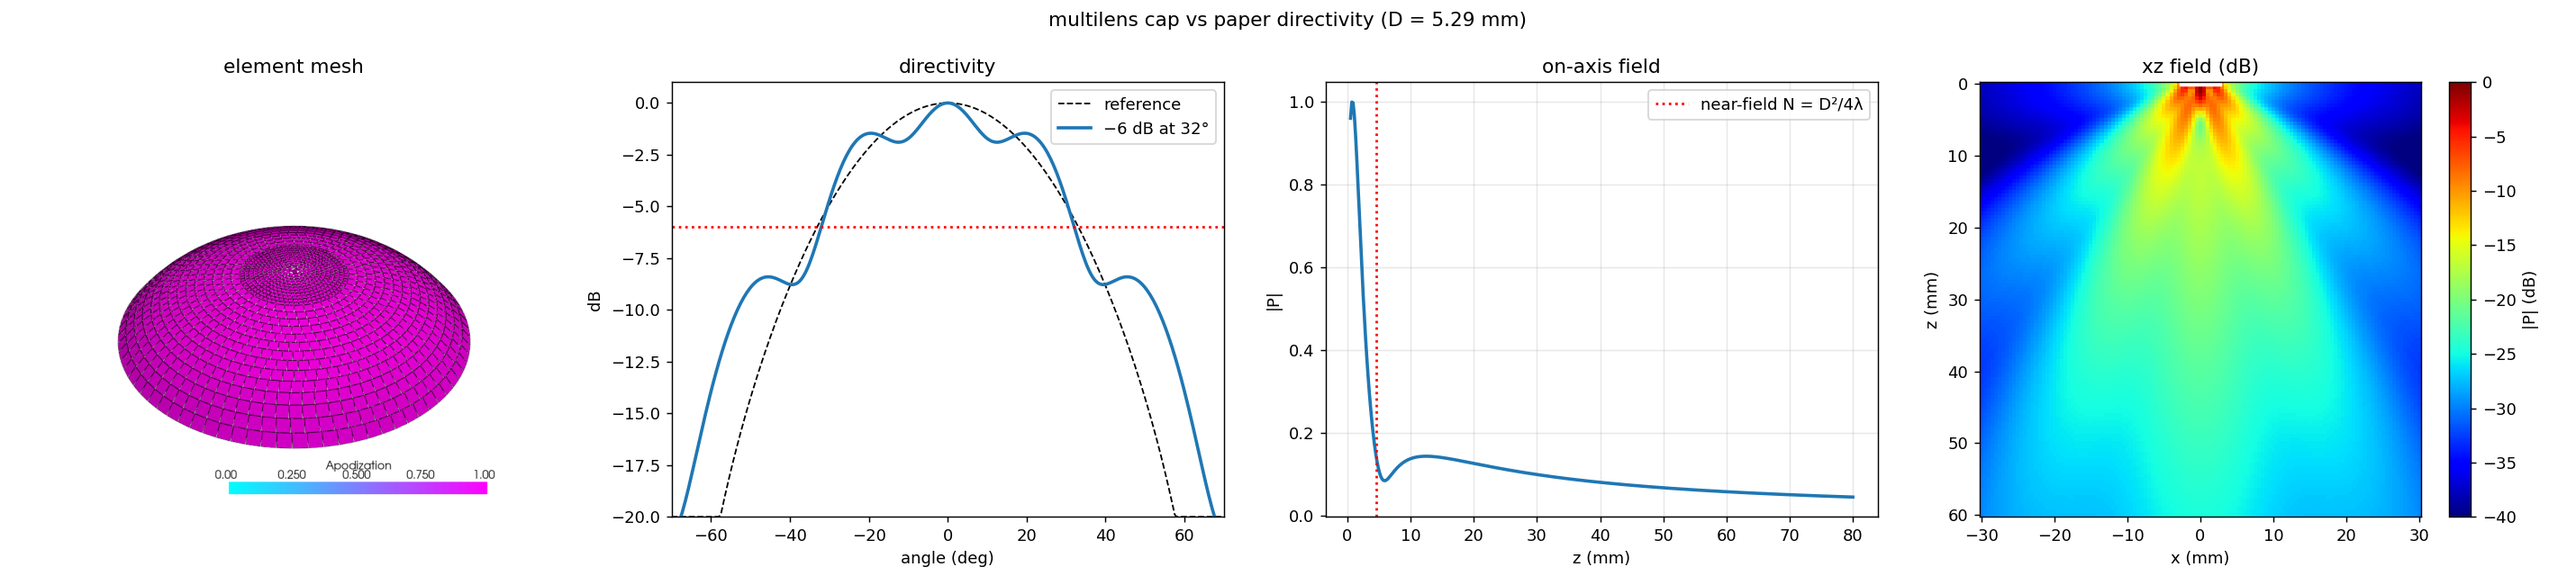
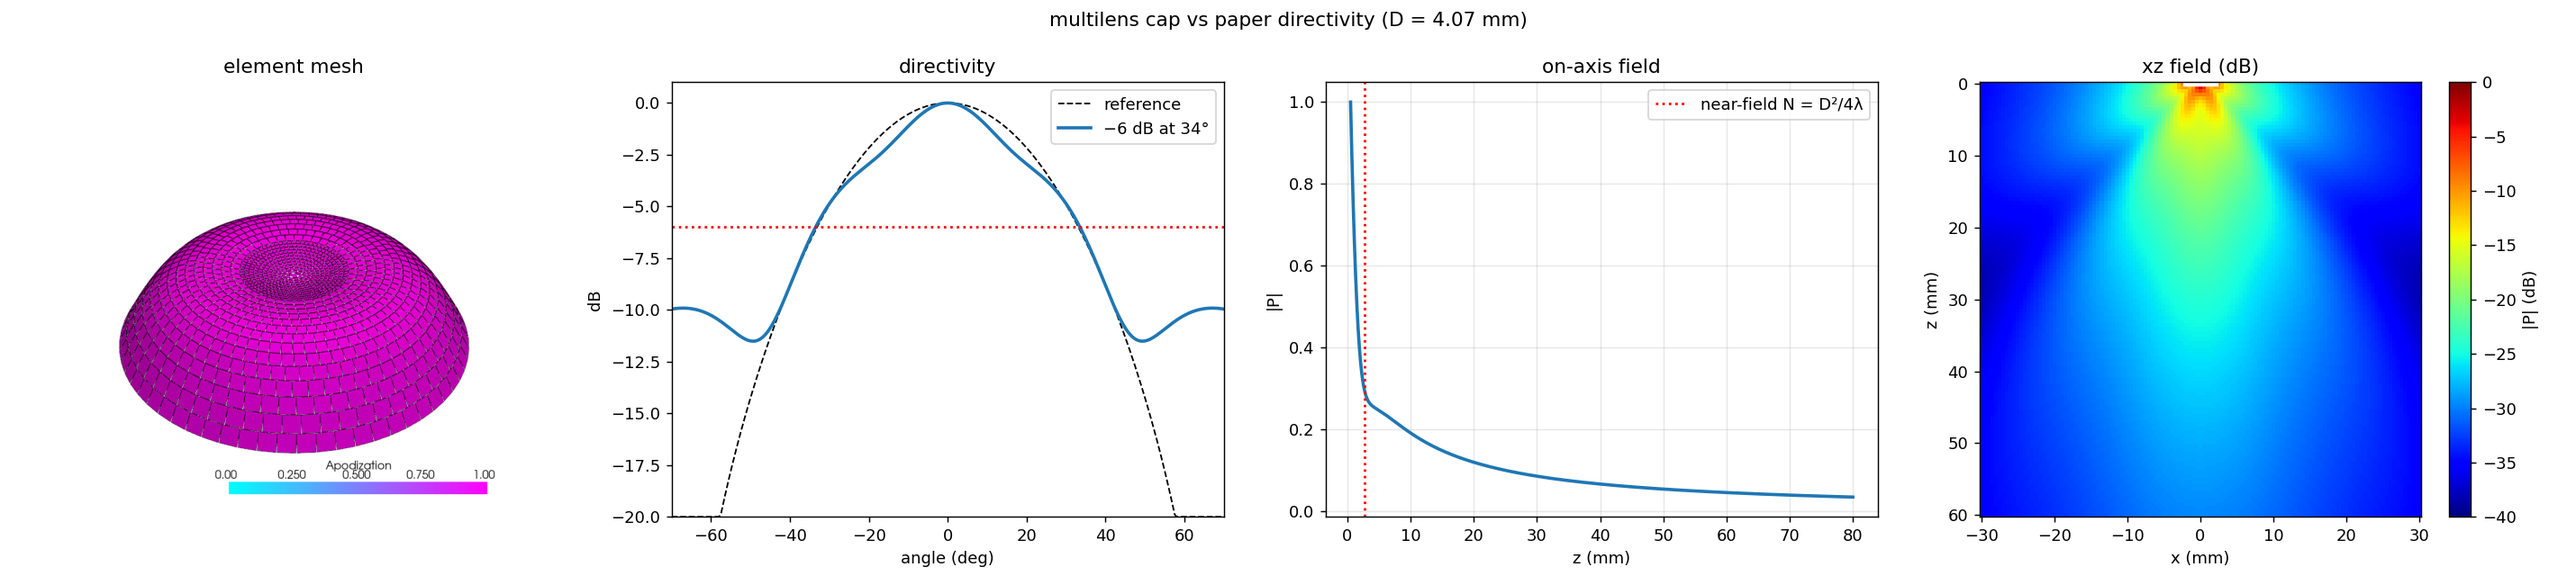
fix(examples): fit example23 over +-50 deg, add seed-vs-optimized profile figure

diff --git a/examples/example23_optimize_radial_element.py b/examples/example23_optimize_radial_element.py
@@ -35,7 +35,7 @@ LAMBDA_MM = C0 / FC * 1e3
 TARGET_HALF_DEG = 33.17  # paper's measured −6 dB half-angle with the lens
 N_COEFFS = 10
 ANGLE = np.linspace(-70, 70, 281)
-FIT = np.abs(ANGLE) <= 45.0
+FIT = np.abs(ANGLE) <= 50.0  # fit the whole bell over ±50°, not just the half-angle
 Z_AXIS = np.linspace(0.5, 60, 300)  # on-axis sampling for the diverging penalty
 
 # Paper's doublet collapsed to one effective diverging cap (both faces R = 3.2 mm,
@@ -100,6 +100,13 @@ def half_angle_deg(dir_db):
     return float(ANGLE[pos][below[0]]) if below.size else float("nan")
 
 
+def profile_mm(coeffs, diameter_mm, n=200):
+    """Surface profile ``(r, z)`` in mm, apex pinned to z=0 as the simulator tiles it."""
+    r_mm = np.linspace(0.0, diameter_mm / 2, n)
+    z_mm = sag_of(coeffs, diameter_mm)(r_mm * 1e-3) * 1e3
+    return r_mm, z_mm - z_mm.max()
+
+
 # Target: unapodised-disc directivity ``2·J1(x)/x`` scaled to the paper half-angle.
 beta = 2.21536 / np.sin(np.deg2rad(TARGET_HALF_DEG))
 x = np.where(np.abs(ANGLE) < 1e-6, 1e-6, beta * np.sin(np.deg2rad(ANGLE)))
@@ -151,9 +158,24 @@ print(
 )
 print(f"coeffs = {np.array2string(coeffs, precision=3)}")
 
-save_path = str(FIG_FOLDER / "ex23_optimized_element.png") if SAVE_FIG else None
 if SAVE_FIG:
     FIG_FOLDER.mkdir(exist_ok=True)
+
+# Profile check: how the surface changed from the physical seed to the optimum.
+rs_mm, zs_mm = profile_mm(c_seed, D_PHYS_MM)
+ro_mm, zo_mm = profile_mm(coeffs, D)
+fig_p, axp = plt.subplots(figsize=(6, 4))
+axp.plot(rs_mm, zs_mm * 1e3, "k--", lw=2, label=f"physical seed (D={D_PHYS_MM:.1f} mm)")
+axp.plot(ro_mm, zo_mm * 1e3, "C0", lw=2, label=f"optimized (D={D:.2f} mm)")
+axp.set(xlabel="r (mm)", ylabel="z (µm)", title="radial surface profile z(r)")
+axp.legend()
+axp.grid(alpha=0.3)
+fig_p.tight_layout()
+if SAVE_FIG:
+    fig_p.savefig(FIG_FOLDER / "ex23_profiles.png", dpi=130)
+    print(f"  Saved: {FIG_FOLDER / 'ex23_profiles.png'}")
+
+save_path = str(FIG_FOLDER / "ex23_optimized_element.png") if SAVE_FIG else None
 fig = visualize_element(
     el,
     c_m_s=C0,
